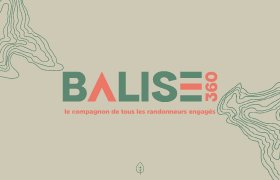
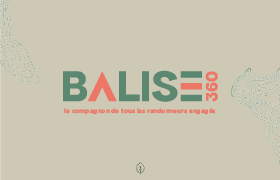
update open graph & twitter card

Changed region(s): [[0.2286, 0.3611, 1.0, 1.0], [0.0, 0.0, 0.3143, 0.5556], [0.4857, 0.9167, 0.5143, 0.9722]]

diff --git a/src/App.vue b/src/App.vue
@@ -59,7 +59,7 @@ export default {
         type: 'website',
         site_name: 'Balise360',
         local: 'fr_FR',
-        image: `${process.env.VUE_APP_BASE_SITE}/open_graph_card.jpg`,
+        image: `${process.env.VUE_APP_BASE_SITE}/open_graph.jpg`,
         'image:secure_url': '',
         'image:type': 'image/jpg',
         'image:width': '1200',
